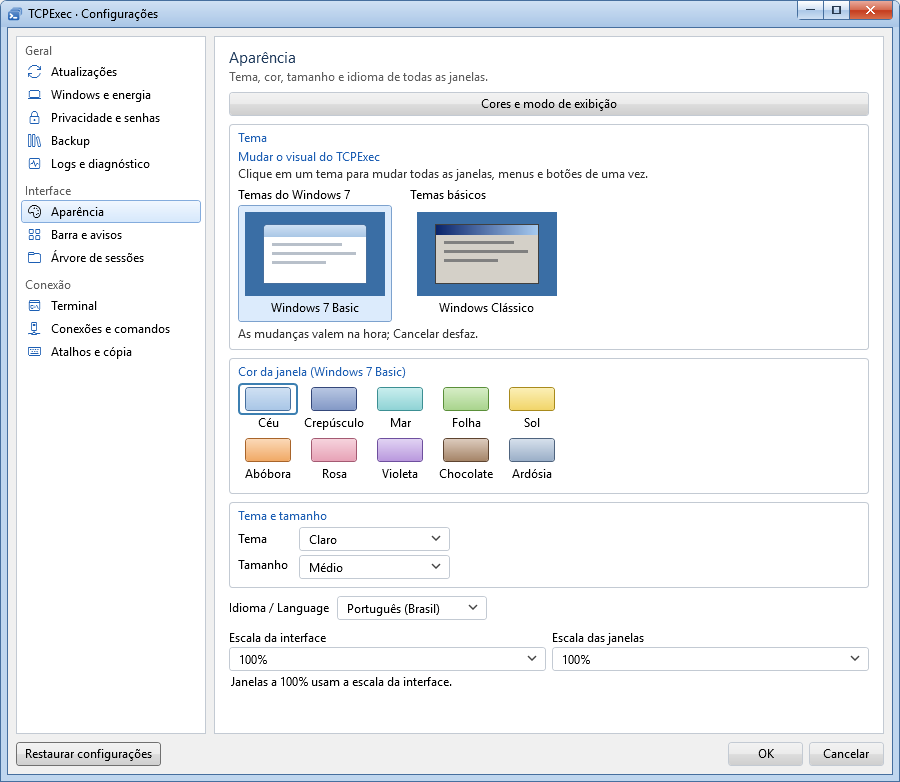
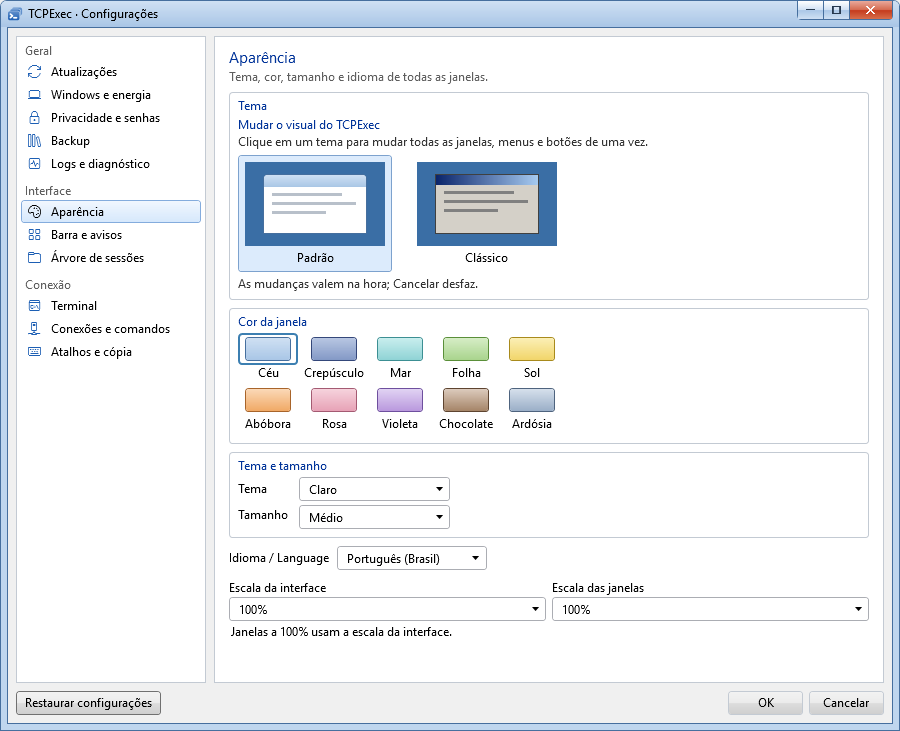
README e telas da 1.0.432 (correções do padrão visual)

diff --git a/README.md b/README.md
@@ -1,7 +1,7 @@
 <p align="center"><img src="telas/banner.png" alt="TCPExec" width="100%"></p>
 
 <p align="center">
-<img src="https://img.shields.io/badge/vers%C3%A3o-1.0.431-blue"> <img src="https://img.shields.io/badge/Windows-10%20%7C%2011-0078D6"> <img src="https://img.shields.io/badge/.NET-11-512BD4">
+<img src="https://img.shields.io/badge/vers%C3%A3o-1.0.432-blue"> <img src="https://img.shields.io/badge/Windows-10%20%7C%2011-0078D6"> <img src="https://img.shields.io/badge/.NET-11-512BD4">
 </p>
 
 <p align="center"><b>A estação de trabalho do técnico de redes: acesse e mande comandos para um equipamento ou para centenas de uma vez.</b><br><i>The network technician's workstation: access and send commands to one device or hundreds at once.</i></p>
@@ -16,7 +16,7 @@ Para quem cuida de switches, roteadores, firewalls e servidores. O TCPExec guard
 | | |
 |---|---|
 | **Execução em massa** — os mesmos comandos em centenas de equipamentos, com o resultado de cada um.<br>*Mass execution — the same commands on hundreds of devices, with each result.* | ![](telas/principal.png) |
-| **Visual Windows 7 Basic ou Windows Clássico** — 10 cores, claro ou escuro, e Configurações em páginas.<br>*Windows 7 Basic or Windows Classic look — 10 colors, light or dark, and Settings in pages.* | ![](telas/aparencia.png) |
+| **Tema Padrão ou Clássico** — 10 cores, claro ou escuro, e Configurações em páginas.<br>*Standard or Classic theme — 10 colors, light or dark, and Settings in pages.* | ![](telas/aparencia.png) |
 | **Tudo à mão no botão direito** — conectar, abrir arquivos, monitorar e copiar a partir do equipamento.<br>*Everything on right-click — connect, open files, monitor and copy from the device.* | ![](telas/menu-equipamento.png) |
 
 ## Como funciona / How it works
@@ -35,7 +35,7 @@ Para quem cuida de switches, roteadores, firewalls e servidores. O TCPExec guard
 ## Galeria / Gallery
 | | |
 |---|---|
-| ![](telas/principal.png)<br>Windows 7 Basic (Céu) / *Windows 7 Basic (Sky)* | ![](telas/classico.png)<br>Windows Clássico / *Windows Classic* |
+| ![](telas/principal.png)<br>Tema Padrão (Céu) / *Standard theme (Sky)* | ![](telas/classico.png)<br>Tema Clássico / *Classic theme* |
 | ![](telas/escuro.png)<br>Modo escuro / *Dark mode* | ![](telas/configuracoes.png)<br>Configurações em páginas / *Settings in pages* |
 | ![](telas/abrir-arquivos.png)<br>Abrir arquivos / *Open files* | ![](telas/principal.png)<br>Execução em massa / *Mass execution* |
 | ![](telas/pergunta.png)<br>Pergunta no tema (cor Folha) / *Question in the theme (Leaf color)* | ![](telas/menu-equipamento.png)<br>Botão direito no equipamento / *Right-click on a device* |
@@ -45,8 +45,9 @@ Para quem cuida de switches, roteadores, firewalls e servidores. O TCPExec guard
 
 Windows 10/11 x64 · .NET 11 Desktop Runtime
 
-## Novidades / What's new — v1.0.431
-- Tema escuro corrigido: títulos e ícones visíveis também no Windows Clássico. / *Dark theme fixed: titles and icons visible in Windows Classic too.*
-- Botões do título no tom escuro e sem faixas claras na Execução em massa. / *Dark title buttons and no light stripes in Mass execution.*
+## Novidades / What's new — v1.0.432
+- Janela de versão nova no formato de mensagem, com a lista do que mudou. / *New-version window as a message, with the list of changes.*
+- Escolha de aparência só nas Configurações; temas Padrão e Clássico. / *Appearance chosen only in Settings; Standard and Classic themes.*
+- Ajustes finos: títulos, botões, barra de status, listas e caixas de escolha. / *Fine-tuning: titles, buttons, status bar, lists and drop-downs.*
 
 <sub>Uso somente com autorização escrita do autor. / Use only with the author's written authorization.</sub>
